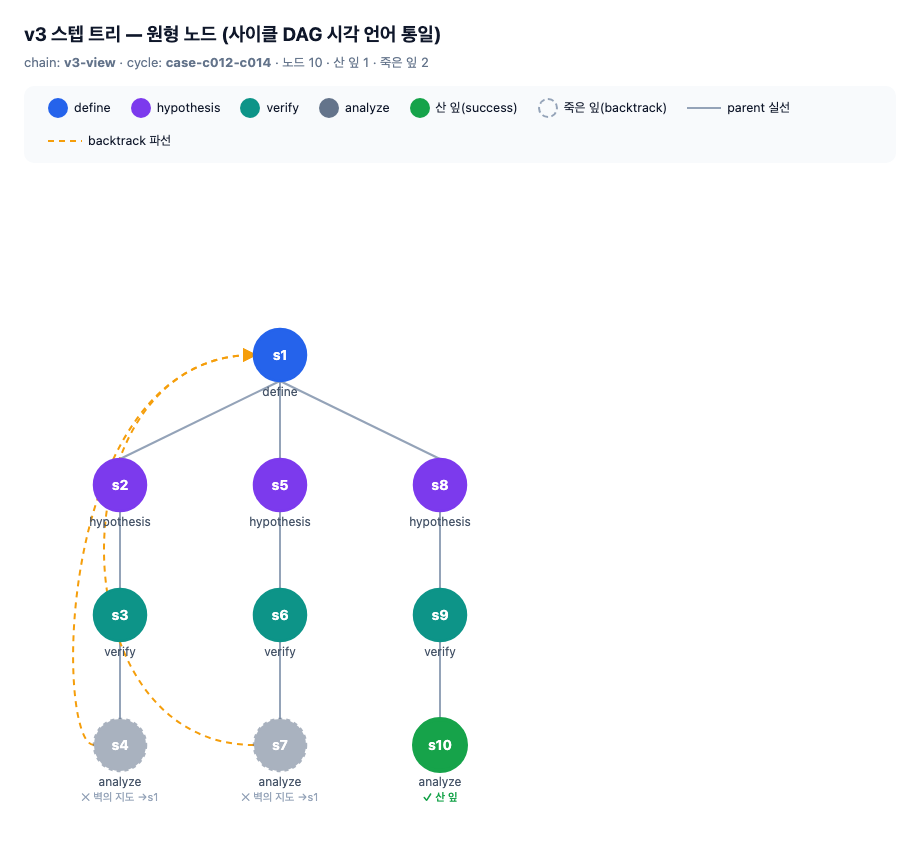
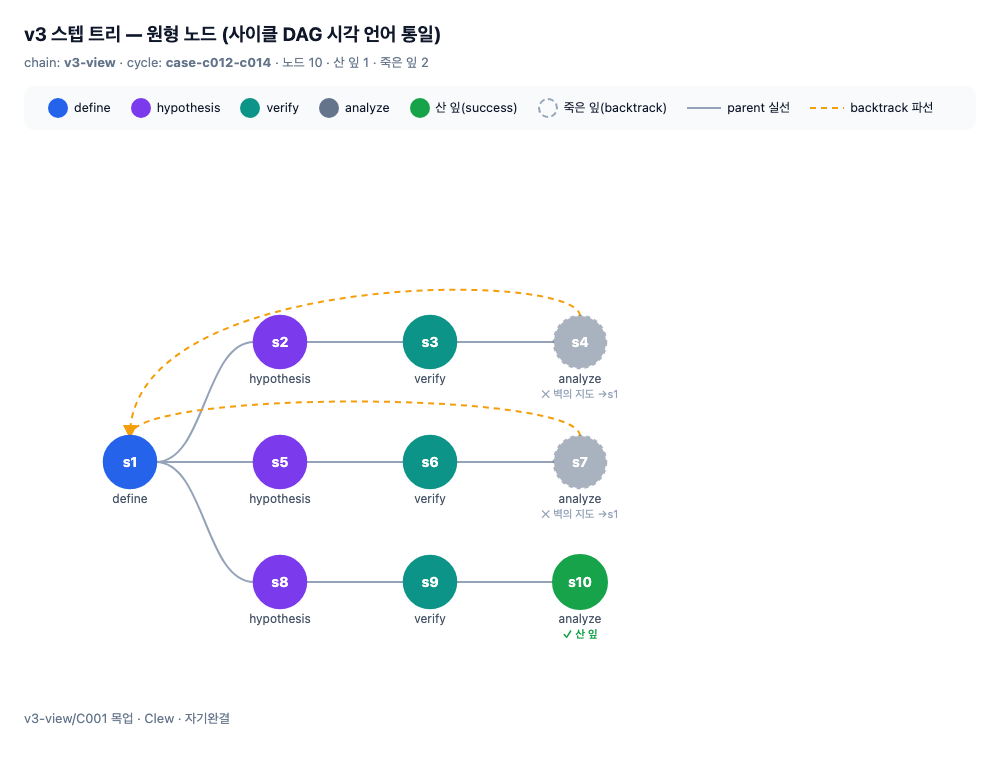
clew: v3-view/C001 가로 흐름으로 재렌더 (사이클 DAG 언어)
상현님 R1 피드백 '가로 DAG 그림이 딱 좋다'대로 depth=가로축·형제=세로축.
parent S자 실선, backtrack 상단 아치 파선. 위상 손실 0.

diff --git a/rooms/experiment/chains/v3-view/C001-circular-step-tree-unified-language/3-verification/out.html b/rooms/experiment/chains/v3-view/C001-circular-step-tree-unified-language/3-verification/out.html
@@ -20,4 +20,4 @@ body{margin:0;font:14px/1.5 -apple-system,BlinkMacSystemFont,"Segoe UI",sans-ser
 .n-kind{font-size:12px;fill:#475569}
 @media (prefers-color-scheme:dark){.n-kind{fill:#94a3b8}}
 .badge{font-size:11px}.badge-live{fill:#16a34a;font-weight:600}.badge-dead{fill:#94a3b8}
-</style><div class="head"><h1>v3 스텝 트리 — 원형 노드 (사이클 DAG 시각 언어 통일)</h1><div class="meta">chain: <b>v3-view</b> · cycle: <b>case-c012-c014</b> · 노드 10 · 산 잎 1 · 죽은 잎 2</div></div><div class="legend"><span class="lg"><span class="sw" style="background:#2563eb;border-color:#2563eb"></span>define</span><span class="lg"><span class="sw" style="background:#7c3aed;border-color:#7c3aed"></span>hypothesis</span><span class="lg"><span class="sw" style="background:#0d9488;border-color:#0d9488"></span>verify</span><span class="lg"><span class="sw" style="background:#64748b;border-color:#64748b"></span>analyze</span><span class="lg"><span class="sw" style="background:#16a34a;border-color:#16a34a"></span>산 잎(success)</span><span class="lg"><span class="sw" style="border-color:#94a3b8;border-style:dashed;background:transparent"></span>죽은 잎(backtrack)</span><span class="lg"><svg width="34" height="10"><line x1="0" y1="5" x2="34" y2="5" stroke="#94a3b8" stroke-width="2"/></svg>parent 실선</span><span class="lg"><svg width="34" height="10"><line x1="0" y1="5" x2="34" y2="5" stroke="#f59e0b" stroke-width="2" stroke-dasharray="6 5"/></svg>backtrack 파선</span></div><div class="wrap"><svg width="512" height="710" viewBox="0 0 512 710" xmlns="http://www.w3.org/2000/svg"><defs><marker id="bt-arrow" viewBox="0 0 10 10" refX="8" refY="5" markerWidth="7" markerHeight="7" orient="auto-start-reverse"><path d="M0 0 L10 5 L0 10 z" fill="#f59e0b"/></marker></defs><line class="edge-parent" x1="256" y1="202" x2="96" y2="280" data-from="s1" data-to="s2" /><line class="edge-parent" x1="96" y1="332" x2="96" y2="410" data-from="s2" data-to="s3" /><line class="edge-parent" x1="96" y1="462" x2="96" y2="540" data-from="s3" data-to="s4" /><line class="edge-parent" x1="256" y1="202" x2="256" y2="280" data-from="s1" data-to="s5" /><line class="edge-parent" x1="256" y1="332" x2="256" y2="410" data-from="s5" data-to="s6" /><line class="edge-parent" x1="256" y1="462" x2="256" y2="540" data-from="s6" data-to="s7" /><line class="edge-parent" x1="256" y1="202" x2="416" y2="280" data-from="s1" data-to="s8" /><line class="edge-parent" x1="416" y1="332" x2="416" y2="410" data-from="s8" data-to="s9" /><line class="edge-parent" x1="416" y1="462" x2="416" y2="540" data-from="s9" data-to="s10" /><path class="edge-backtrack" marker-end="url(#bt-arrow)" d="M 70 566 C 30 566, 30 176, 230 176" data-from="s4" data-to="s1" /><path class="edge-backtrack" marker-end="url(#bt-arrow)" d="M 230 566 C 30 566, 30 176, 230 176" data-from="s7" data-to="s1" /><g class="node kind-define" data-id="s1" data-kind="define" data-outcome=""><circle class="n-circle" cx="256" cy="176" r="26" fill="#2563eb" stroke="#2563eb" /><text class="n-id" x="256" y="181" text-anchor="middle">s1</text><text class="n-kind" x="256" y="217" text-anchor="middle">define</text></g><g class="node kind-hypothesis" data-id="s2" data-kind="hypothesis" data-outcome=""><circle class="n-circle" cx="96" cy="306" r="26" fill="#7c3aed" stroke="#7c3aed" /><text class="n-id" x="96" y="311" text-anchor="middle">s2</text><text class="n-kind" x="96" y="347" text-anchor="middle">hypothesis</text></g><g class="node kind-verify" data-id="s3" data-kind="verify" data-outcome=""><circle class="n-circle" cx="96" cy="436" r="26" fill="#0d9488" stroke="#0d9488" /><text class="n-id" x="96" y="441" text-anchor="middle">s3</text><text class="n-kind" x="96" y="477" text-anchor="middle">verify</text></g><g class="node kind-analyze leaf-dead" data-id="s4" data-kind="analyze" data-outcome="backtrack"><circle class="n-circle" cx="96" cy="566" r="26" fill="#64748b" stroke="#64748b" /><text class="n-id" x="96" y="571" text-anchor="middle">s4</text><text class="n-kind" x="96" y="607" text-anchor="middle">analyze</text><text class="badge badge-dead" x="96" y="622" text-anchor="middle">✕ 벽의 지도 →s1</text></g><g class="node kind-hypothesis" data-id="s5" data-kind="hypothesis" data-outcome=""><circle class="n-circle" cx="256" cy="306" r="26" fill="#7c3aed" stroke="#7c3aed" /><text class="n-id" x="256" y="311" text-anchor="middle">s5</text><text class="n-kind" x="256" y="347" text-anchor="middle">hypothesis</text></g><g class="node kind-verify" data-id="s6" data-kind="verify" data-outcome=""><circle class="n-circle" cx="256" cy="436" r="26" fill="#0d9488" stroke="#0d9488" /><text class="n-id" x="256" y="441" text-anchor="middle">s6</text><text class="n-kind" x="256" y="477" text-anchor="middle">verify</text></g><g class="node kind-analyze leaf-dead" data-id="s7" data-kind="analyze" data-outcome="backtrack"><circle class="n-circle" cx="256" cy="566" r="26" fill="#64748b" stroke="#64748b" /><text class="n-id" x="256" y="571" text-anchor="middle">s7</text><text class="n-kind" x="256" y="607" text-anchor="middle">analyze</text><text class="badge badge-dead" x="256" y="622" text-anchor="middle">✕ 벽의 지도 →s1</text></g><g class="node kind-hypothesis" data-id="s8" data-kind="hypothesis" data-outcome=""><circle class="n-circle" cx="416" cy="306" r="26" fill="#7c3aed" stroke="#7c3aed" /><text class="n-id" x="416" y="311" text-anchor="middle">s8</text><text class="n-kind" x="416" y="347" text-anchor="middle">hypothesis</text></g><g class="node kind-verify" data-id="s9" data-kind="verify" data-outcome=""><circle class="n-circle" cx="416" cy="436" r="26" fill="#0d9488" stroke="#0d9488" /><text class="n-id" x="416" y="441" text-anchor="middle">s9</text><text class="n-kind" x="416" y="477" text-anchor="middle">verify</text></g><g class="node kind-analyze leaf-live" data-id="s10" data-kind="analyze" data-outcome="success"><circle class="n-circle" cx="416" cy="566" r="26" fill="#16a34a" stroke="#16a34a" /><text class="n-id" x="416" y="571" text-anchor="middle">s10</text><text class="n-kind" x="416" y="607" text-anchor="middle">analyze</text><text class="badge badge-live" x="416" y="622" text-anchor="middle">✓ 산 잎</text></g></svg></div><div class="head"><div class="meta">v3-view/C001 목업 · Clew · 자기완결</div></div>
+</style><div class="head"><h1>v3 스텝 트리 — 원형 노드 (사이클 DAG 시각 언어 통일)</h1><div class="meta">chain: <b>v3-view</b> · cycle: <b>case-c012-c014</b> · 노드 10 · 산 잎 1 · 죽은 잎 2</div></div><div class="legend"><span class="lg"><span class="sw" style="background:#2563eb;border-color:#2563eb"></span>define</span><span class="lg"><span class="sw" style="background:#7c3aed;border-color:#7c3aed"></span>hypothesis</span><span class="lg"><span class="sw" style="background:#0d9488;border-color:#0d9488"></span>verify</span><span class="lg"><span class="sw" style="background:#64748b;border-color:#64748b"></span>analyze</span><span class="lg"><span class="sw" style="background:#16a34a;border-color:#16a34a"></span>산 잎(success)</span><span class="lg"><span class="sw" style="border-color:#94a3b8;border-style:dashed;background:transparent"></span>죽은 잎(backtrack)</span><span class="lg"><svg width="34" height="10"><line x1="0" y1="5" x2="34" y2="5" stroke="#94a3b8" stroke-width="2"/></svg>parent 실선</span><span class="lg"><svg width="34" height="10"><line x1="0" y1="5" x2="34" y2="5" stroke="#f59e0b" stroke-width="2" stroke-dasharray="6 5"/></svg>backtrack 파선</span></div><div class="wrap"><svg width="722" height="502" viewBox="0 0 722 502" xmlns="http://www.w3.org/2000/svg"><defs><marker id="bt-arrow" viewBox="0 0 10 10" refX="8" refY="5" markerWidth="7" markerHeight="7" orient="auto-start-reverse"><path d="M0 0 L10 5 L0 10 z" fill="#f59e0b"/></marker></defs><path class="edge-parent" d="M 132 316 C 181 316, 181 196, 230 196" data-from="s1" data-to="s2" /><path class="edge-parent" d="M 282 196 C 331 196, 331 196, 380 196" data-from="s2" data-to="s3" /><path class="edge-parent" d="M 432 196 C 481 196, 481 196, 530 196" data-from="s3" data-to="s4" /><path class="edge-parent" d="M 132 316 C 181 316, 181 316, 230 316" data-from="s1" data-to="s5" /><path class="edge-parent" d="M 282 316 C 331 316, 331 316, 380 316" data-from="s5" data-to="s6" /><path class="edge-parent" d="M 432 316 C 481 316, 481 316, 530 316" data-from="s6" data-to="s7" /><path class="edge-parent" d="M 132 316 C 181 316, 181 436, 230 436" data-from="s1" data-to="s8" /><path class="edge-parent" d="M 282 436 C 331 436, 331 436, 380 436" data-from="s8" data-to="s9" /><path class="edge-parent" d="M 432 436 C 481 436, 481 436, 530 436" data-from="s9" data-to="s10" /><path class="edge-backtrack" marker-end="url(#bt-arrow)" d="M 556 170 C 556 124, 106 124, 106 290" data-from="s4" data-to="s1" /><path class="edge-backtrack" marker-end="url(#bt-arrow)" d="M 556 290 C 556 244, 106 244, 106 290" data-from="s7" data-to="s1" /><g class="node kind-define" data-id="s1" data-kind="define" data-outcome=""><circle class="n-circle" cx="106" cy="316" r="26" fill="#2563eb" stroke="#2563eb" /><text class="n-id" x="106" y="321" text-anchor="middle">s1</text><text class="n-kind" x="106" y="357" text-anchor="middle">define</text></g><g class="node kind-hypothesis" data-id="s2" data-kind="hypothesis" data-outcome=""><circle class="n-circle" cx="256" cy="196" r="26" fill="#7c3aed" stroke="#7c3aed" /><text class="n-id" x="256" y="201" text-anchor="middle">s2</text><text class="n-kind" x="256" y="237" text-anchor="middle">hypothesis</text></g><g class="node kind-verify" data-id="s3" data-kind="verify" data-outcome=""><circle class="n-circle" cx="406" cy="196" r="26" fill="#0d9488" stroke="#0d9488" /><text class="n-id" x="406" y="201" text-anchor="middle">s3</text><text class="n-kind" x="406" y="237" text-anchor="middle">verify</text></g><g class="node kind-analyze leaf-dead" data-id="s4" data-kind="analyze" data-outcome="backtrack"><circle class="n-circle" cx="556" cy="196" r="26" fill="#64748b" stroke="#64748b" /><text class="n-id" x="556" y="201" text-anchor="middle">s4</text><text class="n-kind" x="556" y="237" text-anchor="middle">analyze</text><text class="badge badge-dead" x="556" y="252" text-anchor="middle">✕ 벽의 지도 →s1</text></g><g class="node kind-hypothesis" data-id="s5" data-kind="hypothesis" data-outcome=""><circle class="n-circle" cx="256" cy="316" r="26" fill="#7c3aed" stroke="#7c3aed" /><text class="n-id" x="256" y="321" text-anchor="middle">s5</text><text class="n-kind" x="256" y="357" text-anchor="middle">hypothesis</text></g><g class="node kind-verify" data-id="s6" data-kind="verify" data-outcome=""><circle class="n-circle" cx="406" cy="316" r="26" fill="#0d9488" stroke="#0d9488" /><text class="n-id" x="406" y="321" text-anchor="middle">s6</text><text class="n-kind" x="406" y="357" text-anchor="middle">verify</text></g><g class="node kind-analyze leaf-dead" data-id="s7" data-kind="analyze" data-outcome="backtrack"><circle class="n-circle" cx="556" cy="316" r="26" fill="#64748b" stroke="#64748b" /><text class="n-id" x="556" y="321" text-anchor="middle">s7</text><text class="n-kind" x="556" y="357" text-anchor="middle">analyze</text><text class="badge badge-dead" x="556" y="372" text-anchor="middle">✕ 벽의 지도 →s1</text></g><g class="node kind-hypothesis" data-id="s8" data-kind="hypothesis" data-outcome=""><circle class="n-circle" cx="256" cy="436" r="26" fill="#7c3aed" stroke="#7c3aed" /><text class="n-id" x="256" y="441" text-anchor="middle">s8</text><text class="n-kind" x="256" y="477" text-anchor="middle">hypothesis</text></g><g class="node kind-verify" data-id="s9" data-kind="verify" data-outcome=""><circle class="n-circle" cx="406" cy="436" r="26" fill="#0d9488" stroke="#0d9488" /><text class="n-id" x="406" y="441" text-anchor="middle">s9</text><text class="n-kind" x="406" y="477" text-anchor="middle">verify</text></g><g class="node kind-analyze leaf-live" data-id="s10" data-kind="analyze" data-outcome="success"><circle class="n-circle" cx="556" cy="436" r="26" fill="#16a34a" stroke="#16a34a" /><text class="n-id" x="556" y="441" text-anchor="middle">s10</text><text class="n-kind" x="556" y="477" text-anchor="middle">analyze</text><text class="badge badge-live" x="556" y="492" text-anchor="middle">✓ 산 잎</text></g></svg></div><div class="head"><div class="meta">v3-view/C001 목업 · Clew · 자기완결</div></div>

diff --git a/rooms/experiment/chains/v3-view/C001-circular-step-tree-unified-language/3-verification/circletree.py b/rooms/experiment/chains/v3-view/C001-circular-step-tree-unified-language/3-verification/circletree.py
@@ -13,11 +13,11 @@ C004 = os.path.normpath(os.path.join(
 sys.path.insert(0, C004)
 from steptree import parse_steps_yaml, build_tree, assign_columns  # noqa: E402
 
-# 레이아웃 (원형에 맞게 살짝 조정)
-COL_W = 160
-ROW_H = 130
-PAD_X = 70
-PAD_Y = 150
+# 레이아웃 — 가로 흐름 (사이클 DAG처럼 왼→오른). depth=가로축, 형제(col)=세로축.
+STEP_W = 150   # depth 한 칸당 가로 간격
+LANE_H = 120   # 형제 가지 한 칸당 세로 간격
+PAD_X = 80
+PAD_Y = 170
 R = 26  # 원 반경
 
 KIND_COLOR = {
@@ -30,7 +30,8 @@ LIVE = "#16a34a"  # 산 잎 초록
 
 
 def node_xy(nid, col, depth):
-    return PAD_X + col[nid] * COL_W + R, PAD_Y + depth[nid] * ROW_H + R
+    # 가로: depth가 x를 밀고(왼→오른), 세로: col(형제)이 y를 쌓는다.
+    return PAD_X + depth[nid] * STEP_W + R, PAD_Y + col[nid] * LANE_H + R
 
 
 CSS = """
@@ -63,8 +64,9 @@ def render_html(nodes, chain="v3-view", cycle="case-c012-c014"):
     col = assign_columns(children, root)
     max_col = max(col.values())
     max_depth = max(depth.values())
-    width = int(PAD_X * 2 + max_col * COL_W + R * 2)
-    height = int(PAD_Y + (max_depth + 1) * ROW_H + 40)
+    # 가로 흐름: 너비는 depth가, 높이는 형제(col)가 정한다.
+    width = int(PAD_X * 2 + max_depth * STEP_W + R * 2 + 60)
+    height = int(PAD_Y + max_col * LANE_H + R * 2 + 40)
 
     p_edges, bt_edges, node_svg = [], [], []
     live, dead = [], []
@@ -73,13 +75,16 @@ def render_html(nodes, chain="v3-view", cycle="case-c012-c014"):
         nid, kind, outcome = n["id"], n["kind"], n.get("outcome")
         cx, cy = node_xy(nid, col, depth)
 
-        # parent 엣지 = 실선 (부모 원 하단 → 자식 원 상단)
+        # parent 엣지 = 실선 (부모 원 우측 → 자식 원 좌측, 왼→오른 흐름)
         p = n.get("parent")
         if p is not None:
             px, py = node_xy(p, col, depth)
+            # 부드러운 수평 베지어 (같은 lane이면 직선, 다른 lane이면 S자)
+            mx = (px + cx) / 2
             p_edges.append(
-                f'<line class="edge-parent" x1="{px:.0f}" y1="{py + R:.0f}" '
-                f'x2="{cx:.0f}" y2="{cy - R:.0f}" data-from="{p}" data-to="{nid}" />')
+                f'<path class="edge-parent" d="M {px + R:.0f} {py:.0f} '
+                f'C {mx:.0f} {py:.0f}, {mx:.0f} {cy:.0f}, {cx - R:.0f} {cy:.0f}" '
+                f'data-from="{p}" data-to="{nid}" />')
 
         classes = ["node", f"kind-{kind}"]
         color = KIND_COLOR[kind]
@@ -93,15 +98,15 @@ def render_html(nodes, chain="v3-view", cycle="case-c012-c014"):
             bt = n.get("backtrack")
             badge = (f'<text class="badge badge-dead" x="{cx:.0f}" y="{cy + R + 30:.0f}" '
                      f'text-anchor="middle">✕ 벽의 지도 →{html.escape(bt or "?")}</text>')
-            # backtrack 엣지 = 파선 곡선 (잎 왼쪽 → 조상 define 왼쪽)
+            # backtrack 엣지 = 파선 곡선 (잎 위 → 조상 define 위로 되돌아감, 상단 우회)
             if bt in by_id:
                 tx, ty = node_xy(bt, col, depth)
-                sx, sy = cx - R, cy
-                dx, dy = tx - R, ty
-                bulge = PAD_X - 40
+                sx, sy = cx, cy - R
+                dx, dy = tx, ty - R
+                arch = min(sy, dy) - 46  # 노드들 위로 아치를 그려 겹침 회피
                 bt_edges.append(
                     f'<path class="edge-backtrack" marker-end="url(#bt-arrow)" '
-                    f'd="M {sx:.0f} {sy:.0f} C {bulge:.0f} {sy:.0f}, {bulge:.0f} {dy:.0f}, '
+                    f'd="M {sx:.0f} {sy:.0f} C {sx:.0f} {arch:.0f}, {dx:.0f} {arch:.0f}, '
                     f'{dx:.0f} {dy:.0f}" data-from="{nid}" data-to="{bt}" />')
 
         node_svg.append(